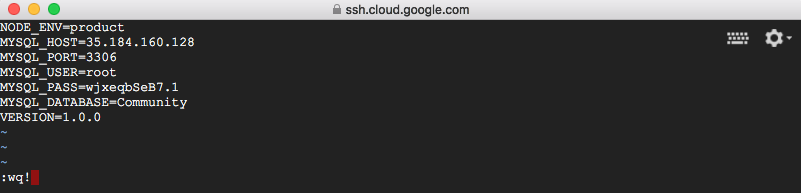
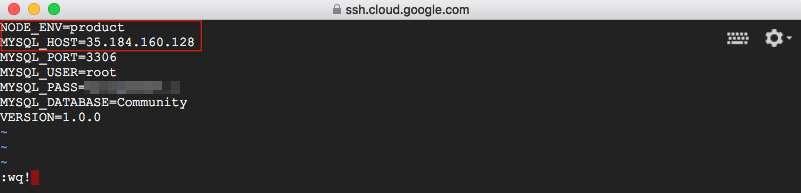
add Ad

Changed region(s): [[0.0936, 0.4041, 0.2497, 0.4974], [0.0, 0.2487, 0.2497, 0.2798], [0.0, 0.0933, 0.2497, 0.1244]]

diff --git a/_includes/header.html b/_includes/header.html
@@ -78,6 +78,15 @@
         }
     }
     </script>
+    <!-- Google廣告 -->
+    <script async src="//pagead2.googlesyndication.com/pagead/js/adsbygoogle.js"></script>
+    <script>
+      (adsbygoogle = window.adsbygoogle || []).push({
+        google_ad_client: "ca-pub-1904815224794784",
+        enable_page_level_ads: true
+      });
+    </script>
+    <!-- end -->
 </head>
 <body class="{{ page.class }}" data-mz="{{ page.class }}">
     <header class="site-header">

diff --git a/_posts/android/2017/2018-01-18-gcp-tutorial(4).md b/_posts/android/2017/2018-01-18-gcp-tutorial(4).md
@@ -1,0 +1,74 @@
+---
+layout: post
+title: '[Node.js打造API] Google Cloud Platform(4)-API測試'
+categories: '2018iT邦鐵人賽'
+description: ''
+keywords: api
+---
+
+## 本文你將會學到
+- 使用 git 將專案引入到 VM 虛擬機中
+- 在 VM 上測試執行API
+
+## 前言
+昨天已經將 Cloud SQL 部署完成了，今天就來驗收整個成果吧！
+
+## 執行VM個體
+在左邊的選單目錄中進入 `Compute Engine > VM執行個體`，進入後點選 `在瀏覽器視窗中開啟`。
+
+<img src="/images/posts/it2018/img1070121-3.png">
+
+##### 1. clone 專案至 VM
+
+>若先前已經 clone 此專案的讀者可以直接跳到步驟二
+
+將專案 `git clone` 下來，之後進入該專案資料夾，進入後再輸入 `npm install` 把node_modules下載回來，基本上就是這三步驟將 GitHub 上的專案移下載至 VM 中。
+
+```bash
+#把專案下載到VM
+git clone https://github.com/andy6804tw/RESTful_API_start_kit.git
+#進入專案資料夾
+cd RESTful_API_start_kit
+#把node_modules下載回來
+npm install
+```
+
+<img src="/images/posts/it2018/img1070121-4.png">
+
+##### 2.進入主分支
+
+>步驟一完成的讀者可以直接跳到步驟三
+
+若先前已 clone 此專案的讀者，先進入該專案底下的資料夾，之後再進入 `master` 主分支，隨後鍵入 `npm install` 確保所有的 node.js 套件已安裝。
+
+```bash
+cd RESTful_API_start_kit
+git checkout master
+npm install
+```
+
+##### 2. 建立 dotenv 環境變數
+我們使用 linux 指令中的 `cp` 將一個環境變數 `.example.env` 範本複製一份新的並命名為 `.env`
+
+```bash
+cp .example.env .env
+```
+
+##### 3. 修改 `.env` 內容
+使用 vim 編輯模式進入 `.env` 隱藏檔裡，把 `MYSQL_HOST` 修改成自己 GCP 中雲端資料庫(Cloud SQL) 所提供的連線 IP 位址。
+
+```bash
+vim .env
+```
+
+<img src="/images/posts/it2018/img1070121-5.png">
+<img src="/images/posts/it2018/img1070121-1.png">
+
+##### 4. deploy 專案並啟動
+使用 `webpack` 後會自己產生一個 dist 資料夾，最後再鍵入 `npm run start` 來執行它。
+
+```bash
+webpack
+npm run start
+```
+<img src="/images/posts/it2018/img1070121-2.png">
